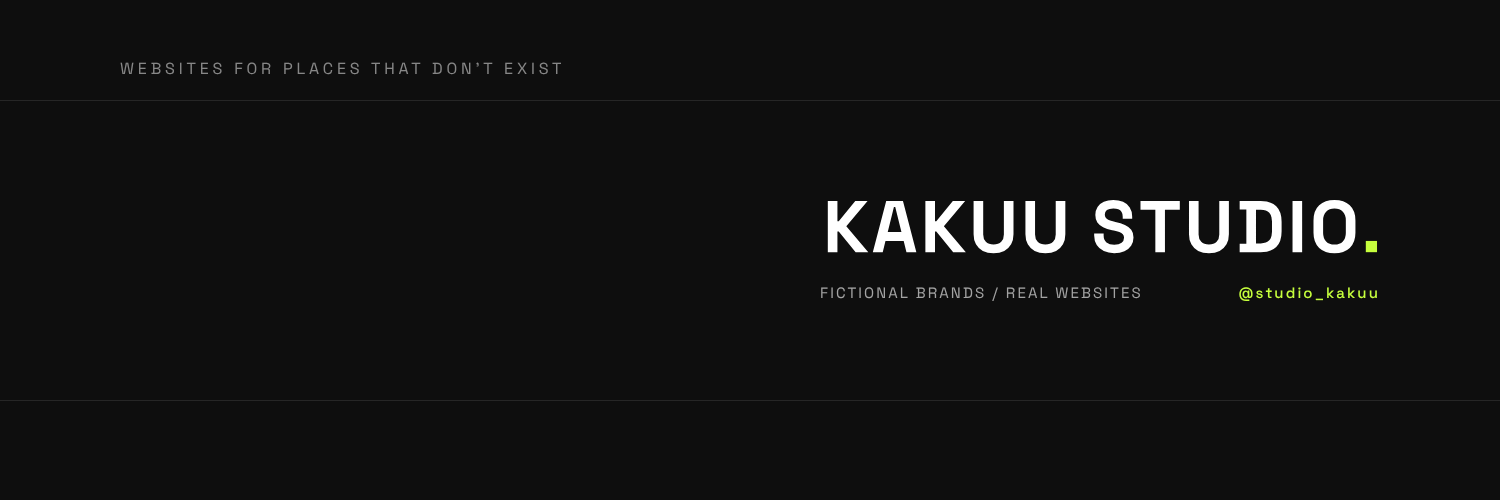
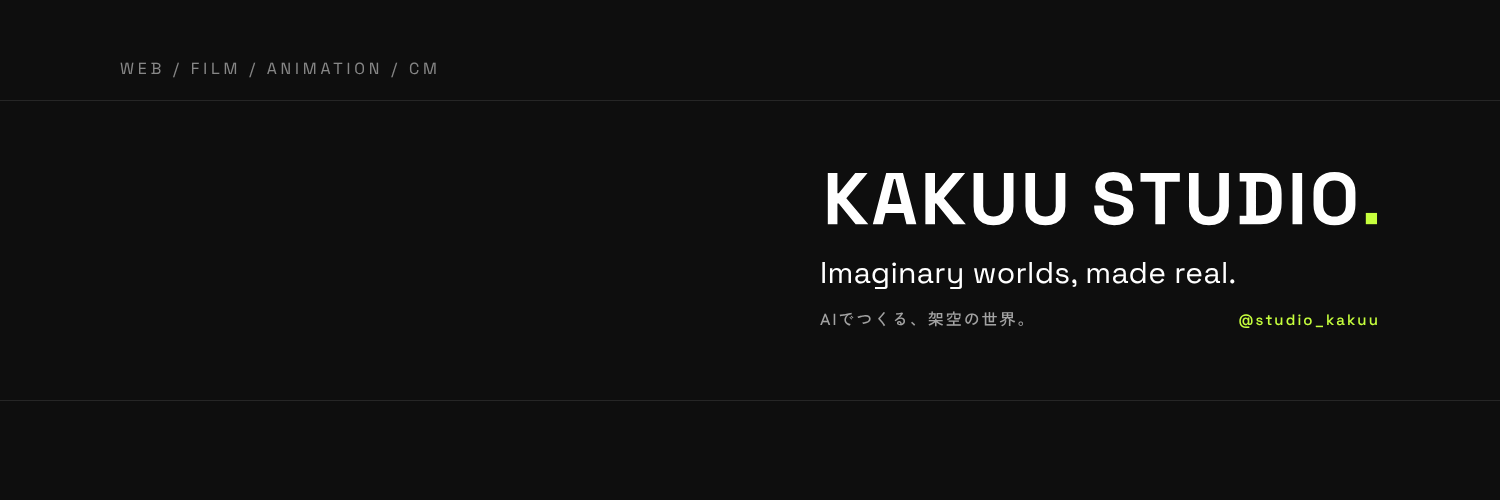
Update X header image to the new studio tagline
Replace website-only copy with "Imaginary worlds, made real." and
「AIでつくる、架空の世界。」; top-left now lists genres. Layout keeps
the bottom-left clear for the profile image and all text on one line.

Claude-Session: https://claude.ai/code/session_01L41z3XQdSjGHzfnfjFEEb2

diff --git a/brand/sns/src/x-header.html b/brand/sns/src/x-header.html
@@ -1,6 +1,6 @@
 <!doctype html>
 <html lang="ja"><head><meta charset="utf-8"><title>x header 1500x500</title>
-<link href="https://fonts.googleapis.com/css2?family=Space+Grotesk:wght@400;500&display=swap" rel="stylesheet">
+<link href="https://fonts.googleapis.com/css2?family=Space+Grotesk:wght@400;500&family=Zen+Kaku+Gothic+New:wght@500&display=swap" rel="stylesheet">
 <style>
   html, body { margin: 0; width: 1500px; height: 500px; background: #0E0E0E; overflow: hidden; }
   body { position: relative; font-family: "Space Grotesk", sans-serif; color: #FFFFFF; }
@@ -11,16 +11,19 @@
   /* 右側に主要要素(左下はプロフィール画像と重なるため空ける) */
   .block { position: absolute; right: 120px; top: 50%; transform: translateY(-50%); width: 560px; }
   .block img { width: 560px; display: block; }
-  .tag { margin-top: 28px; display: flex; justify-content: space-between; white-space: nowrap; font-size: 15px; letter-spacing: .14em; color: rgba(255,255,255,.62); }
+  .motto { margin-top: 26px; font-size: 30px; font-weight: 400; letter-spacing: .01em; white-space: nowrap; color: #FFFFFF; }
+  .tag { margin-top: 14px; display: flex; justify-content: space-between; align-items: baseline; white-space: nowrap; font-size: 15px; letter-spacing: .14em; color: rgba(255,255,255,.62); }
+  .tag .ja { font-family: "Zen Kaku Gothic New", sans-serif; font-weight: 500; font-size: 16px; letter-spacing: .12em; }
   .tag b { font-weight: 500; color: #C6FF3D; }
   .top { position: absolute; left: 120px; top: 58px; font-size: 16px; letter-spacing: .24em; color: rgba(255,255,255,.5); }
   .num { position: absolute; left: 1100px; top: 412px; font-size: 14px; letter-spacing: .2em; color: rgba(255,255,255,.4); }
 </style></head>
 <body>
   <div class="rule r1"></div><div class="rule r2"></div>
-  <div class="top">WEBSITES FOR PLACES THAT DON’T EXIST</div>
+  <div class="top">WEB / FILM / ANIMATION / CM</div>
   <div class="block">
     <img src="../../logo.svg" alt="KAKUU STUDIO">
-    <div class="tag"><span>FICTIONAL BRANDS / REAL WEBSITES</span><b>@studio_kakuu</b></div>
+    <div class="motto">Imaginary worlds, made real.</div>
+    <div class="tag"><span class="ja">AIでつくる、架空の世界。</span><b>@studio_kakuu</b></div>
   </div>
 </body></html>
